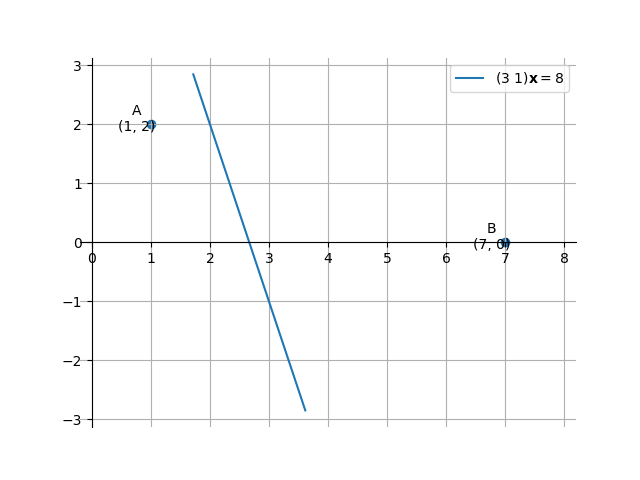
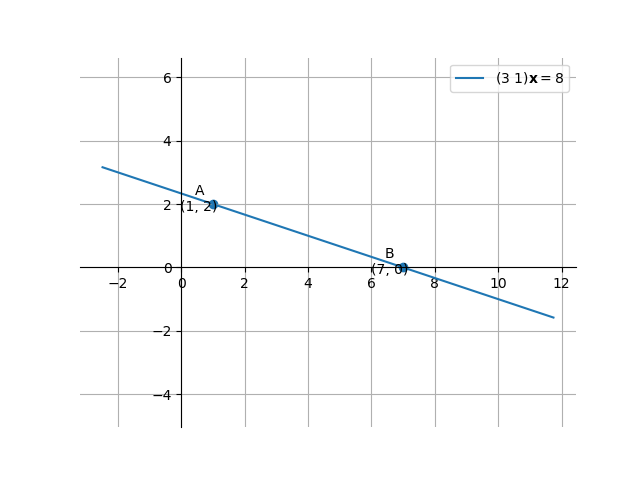
matgeo q2 (2)

diff --git a/matgeo_questions/q2/main.tex b/matgeo_questions/q2/main.tex
@@ -40,7 +40,7 @@
 \bibliographystyle{IEEEtran}
 \vspace{3cm}
 
-\title{1.3.4}
+\title{1.6.7}
 \author{EE24BTECH11002 - Agamjot Singh
 }
 % \maketitle
@@ -62,14 +62,15 @@ Let the points be $\vec{A}\brak{1, 2} \text{,} \vec{B}\brak{7, 0} \text{ and } \
 
 The collinearity matrix is given by
 \begin{align}
-	\myvec{\vec{B} - \vec{A} & \vec{C} - \vec{A}}^\top = \myvec{6 & x - 2\\ -2 & y - 2}\\ 
-													   \xrightarrow{R_2 = R_2 + 3R_1} \myvec{6 & x - 2\\0 & 3x + y - 8}
+	\myvec{\vec{B} - \vec{A} & \vec{C} - \vec{A}}^\top = \myvec{6 & x - 1\\ -2 & y - 2}\\ 
+													   \xrightarrow{R_2 = R_2 + \frac{R_1}{3}} \myvec{6 & x - 1\\0 & y - 2 + \frac{x-1}{3}}
 \end{align}
 
 For the points to be collinear, the rank of this matrix has to be one.
 
 \begin{align}
-	3x + y - 8 = 0
+	y - 2 + \frac{x - 1}{3} &= 0\\
+	x + 3y - 7 &= 0
 \end{align}
 
 The relation between $x$ and $y$ is a line.

diff --git a/matgeo_questions/q2/codes/graph.py b/matgeo_questions/q2/codes/graph.py
@@ -16,12 +16,12 @@ A = np.array(([1, 2])).reshape(-1,1)
 B = np.array(([7, 0])).reshape(-1,1) 
 
 #Line parameters
-n = np.array(([3, 1])).reshape(-1,1) 
-c = 8
+n = np.array(([1, 3])).reshape(-1,1) 
+c = 7
 
 #Generating Lines
-k1 = -3
-k2 = 3
+k1 = -10
+k2 = 5
 x_C = line_norm(n,c,k1,k2)
 
 #Plotting all lines
